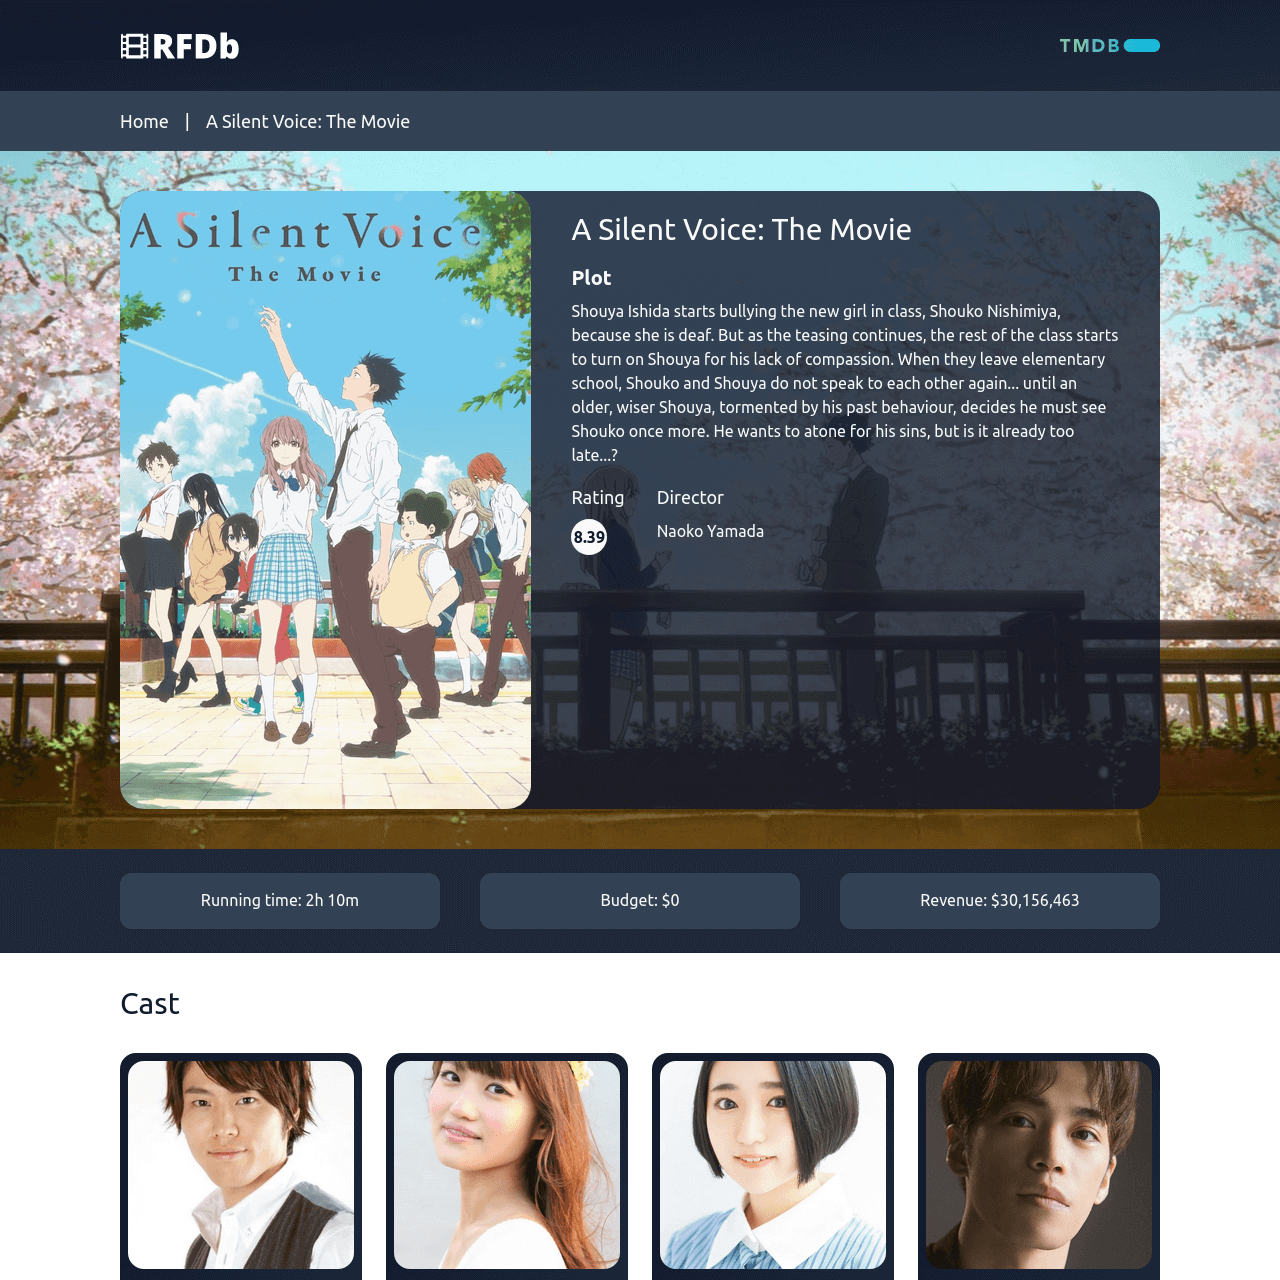
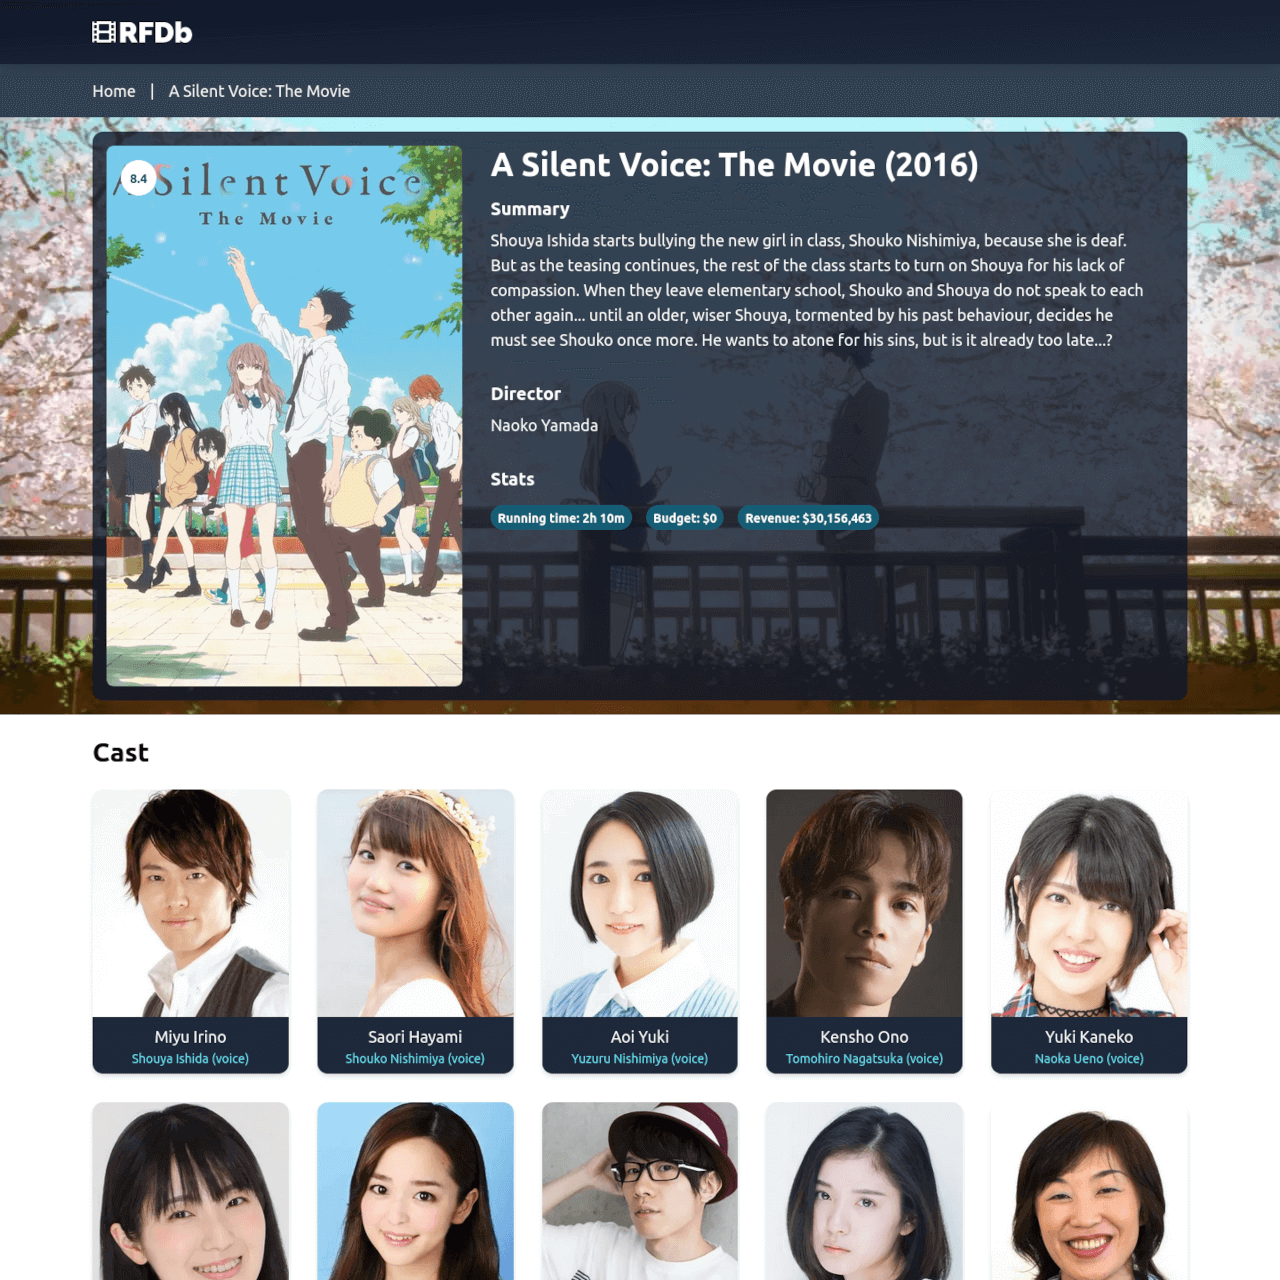
Update react-film-database portfolio item
- Update preview image

- Add skill for Next.js

- Update information about portfolio item

- Build new portfolio json data

diff --git a/content/portfolio/portfolio.ts b/content/portfolio/portfolio.ts
@@ -2,6 +2,7 @@ import type { PortfolioItemPrebuildType } from './types';
 
 import {
   React,
+  NextJS,
   TypeScript,
   MaterialUI,
   CSS,
@@ -21,7 +22,7 @@ export const portfolioItems: PortfolioItemPrebuildType[] = [
     demoUrl: 'https://rfdb.netlify.app/',
     codeUrl: 'https://github.com/jonrutter/react-film-database',
     type: 'app',
-    skills: [React, Tailwind, TypeScript],
+    skills: [NextJS, React, Tailwind, TypeScript],
     img: 'images/rfdb.png',
   },
   {

diff --git a/content/portfolio/skills.ts b/content/portfolio/skills.ts
@@ -18,6 +18,12 @@ export const TypeScript: SkillType = {
   url: 'https://www.typescriptlang.org/',
 };
 
+export const NextJS: SkillType = {
+  label: 'Next.js',
+  color: '#000',
+  url: 'https://nextjs.org/'
+}
+
 export const Gatsby: SkillType = {
   label: 'Gatsby',
   color: '#663399',
